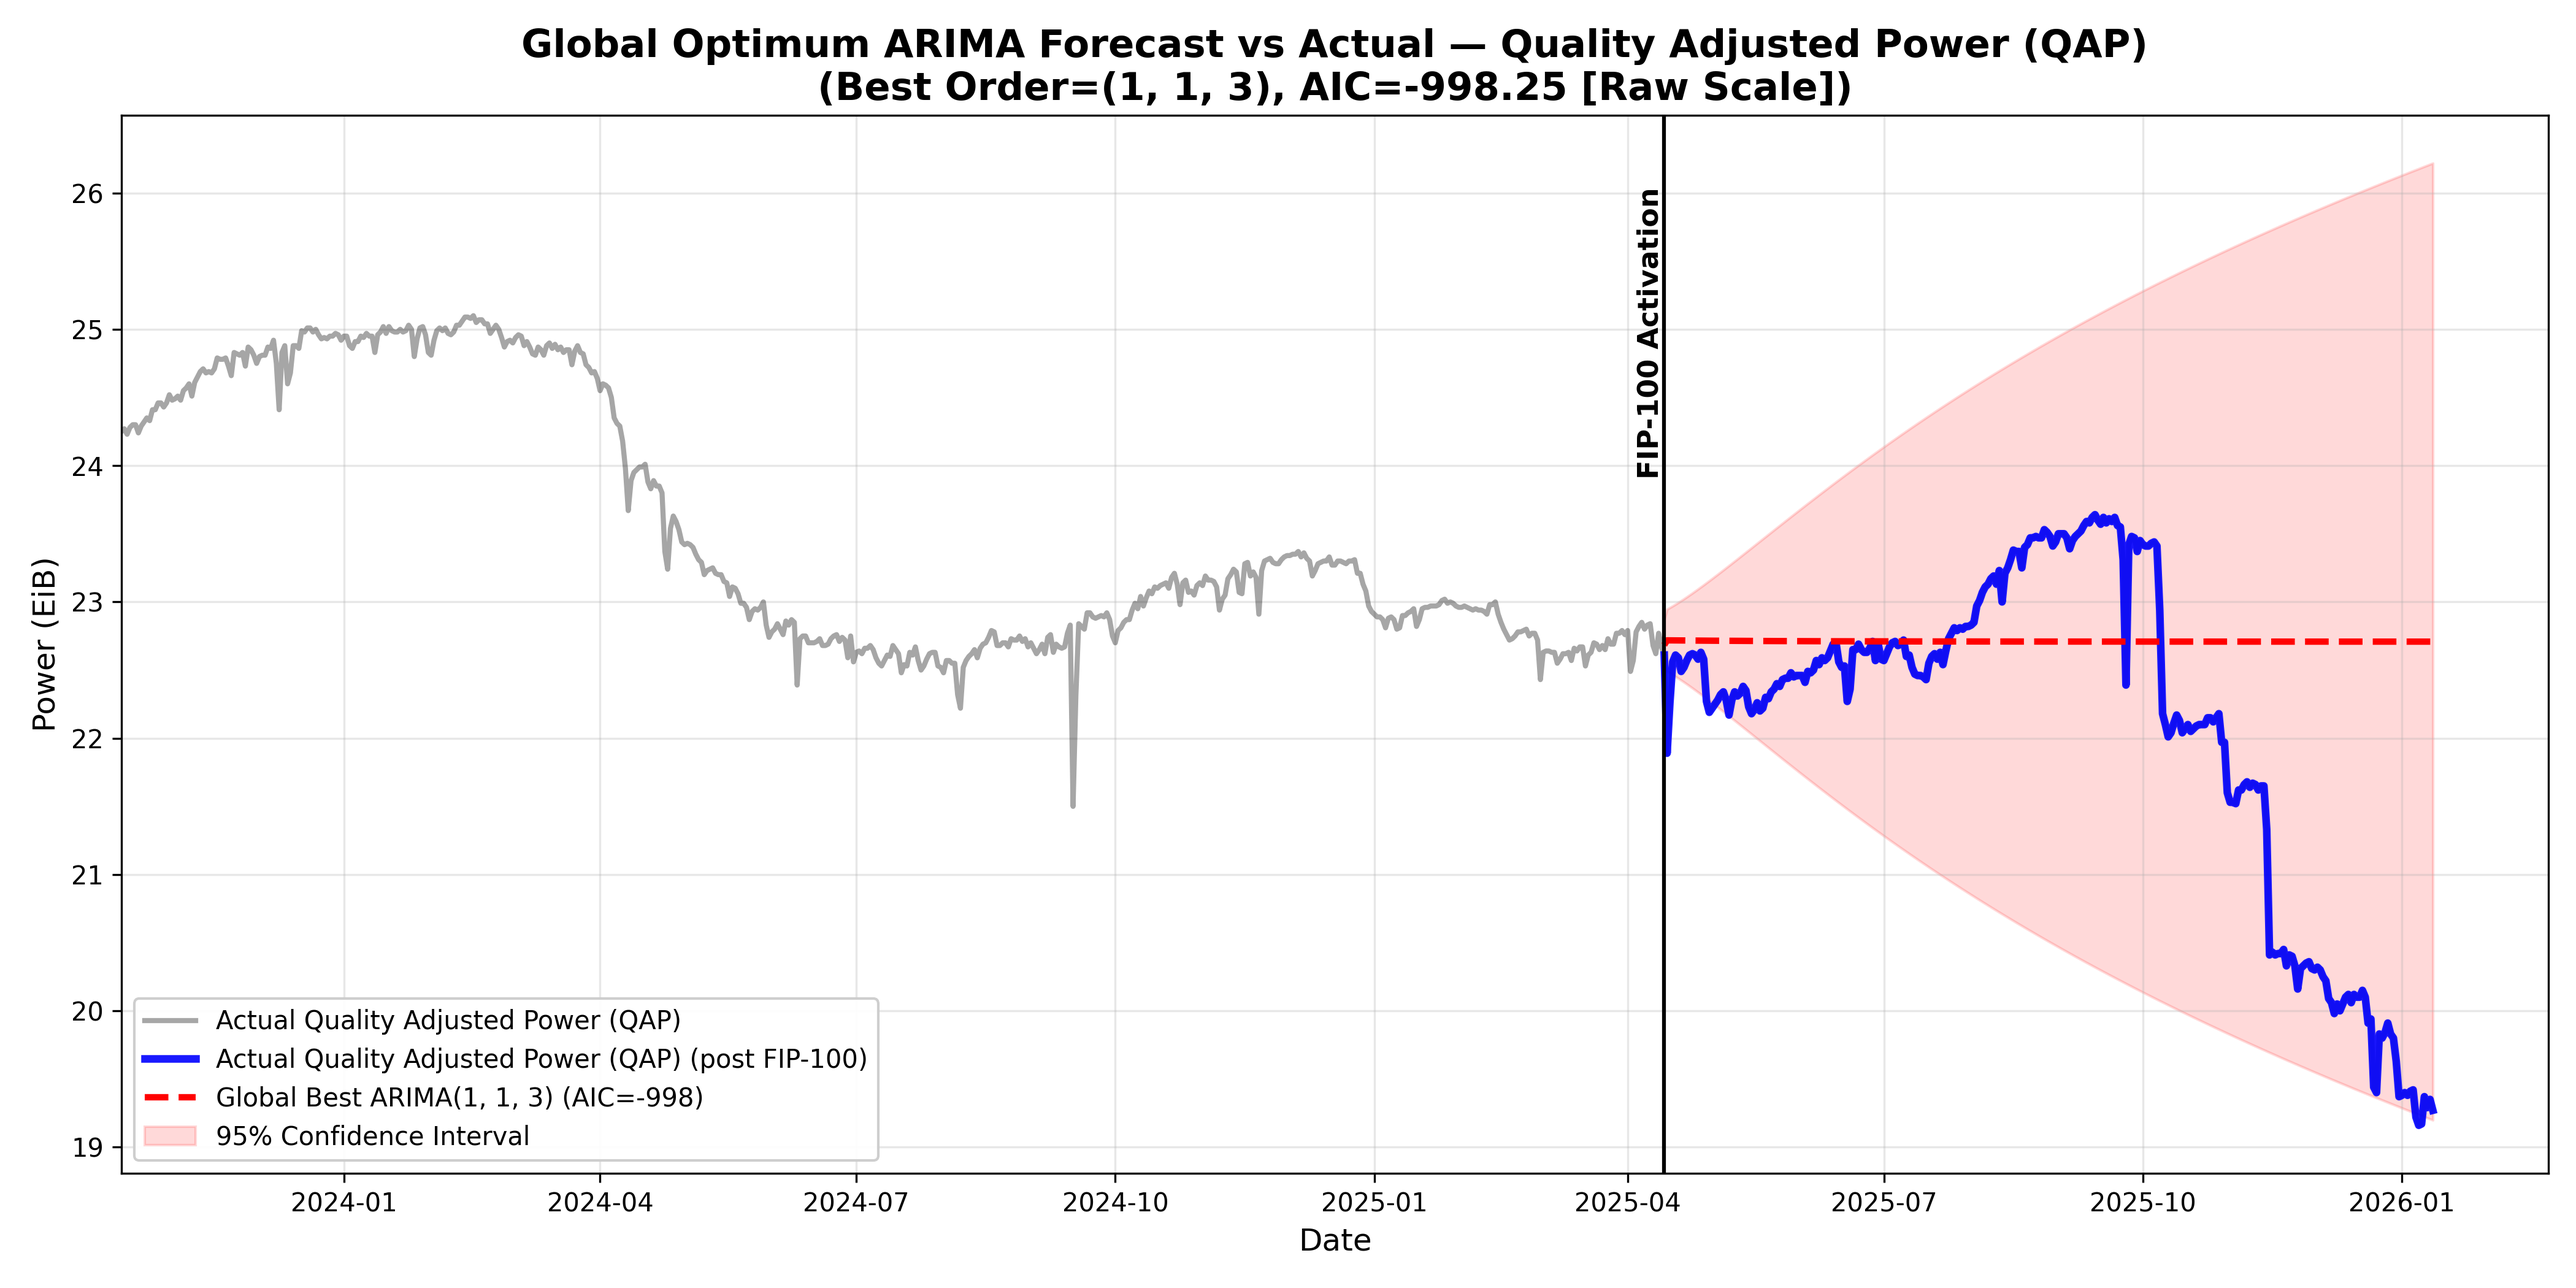
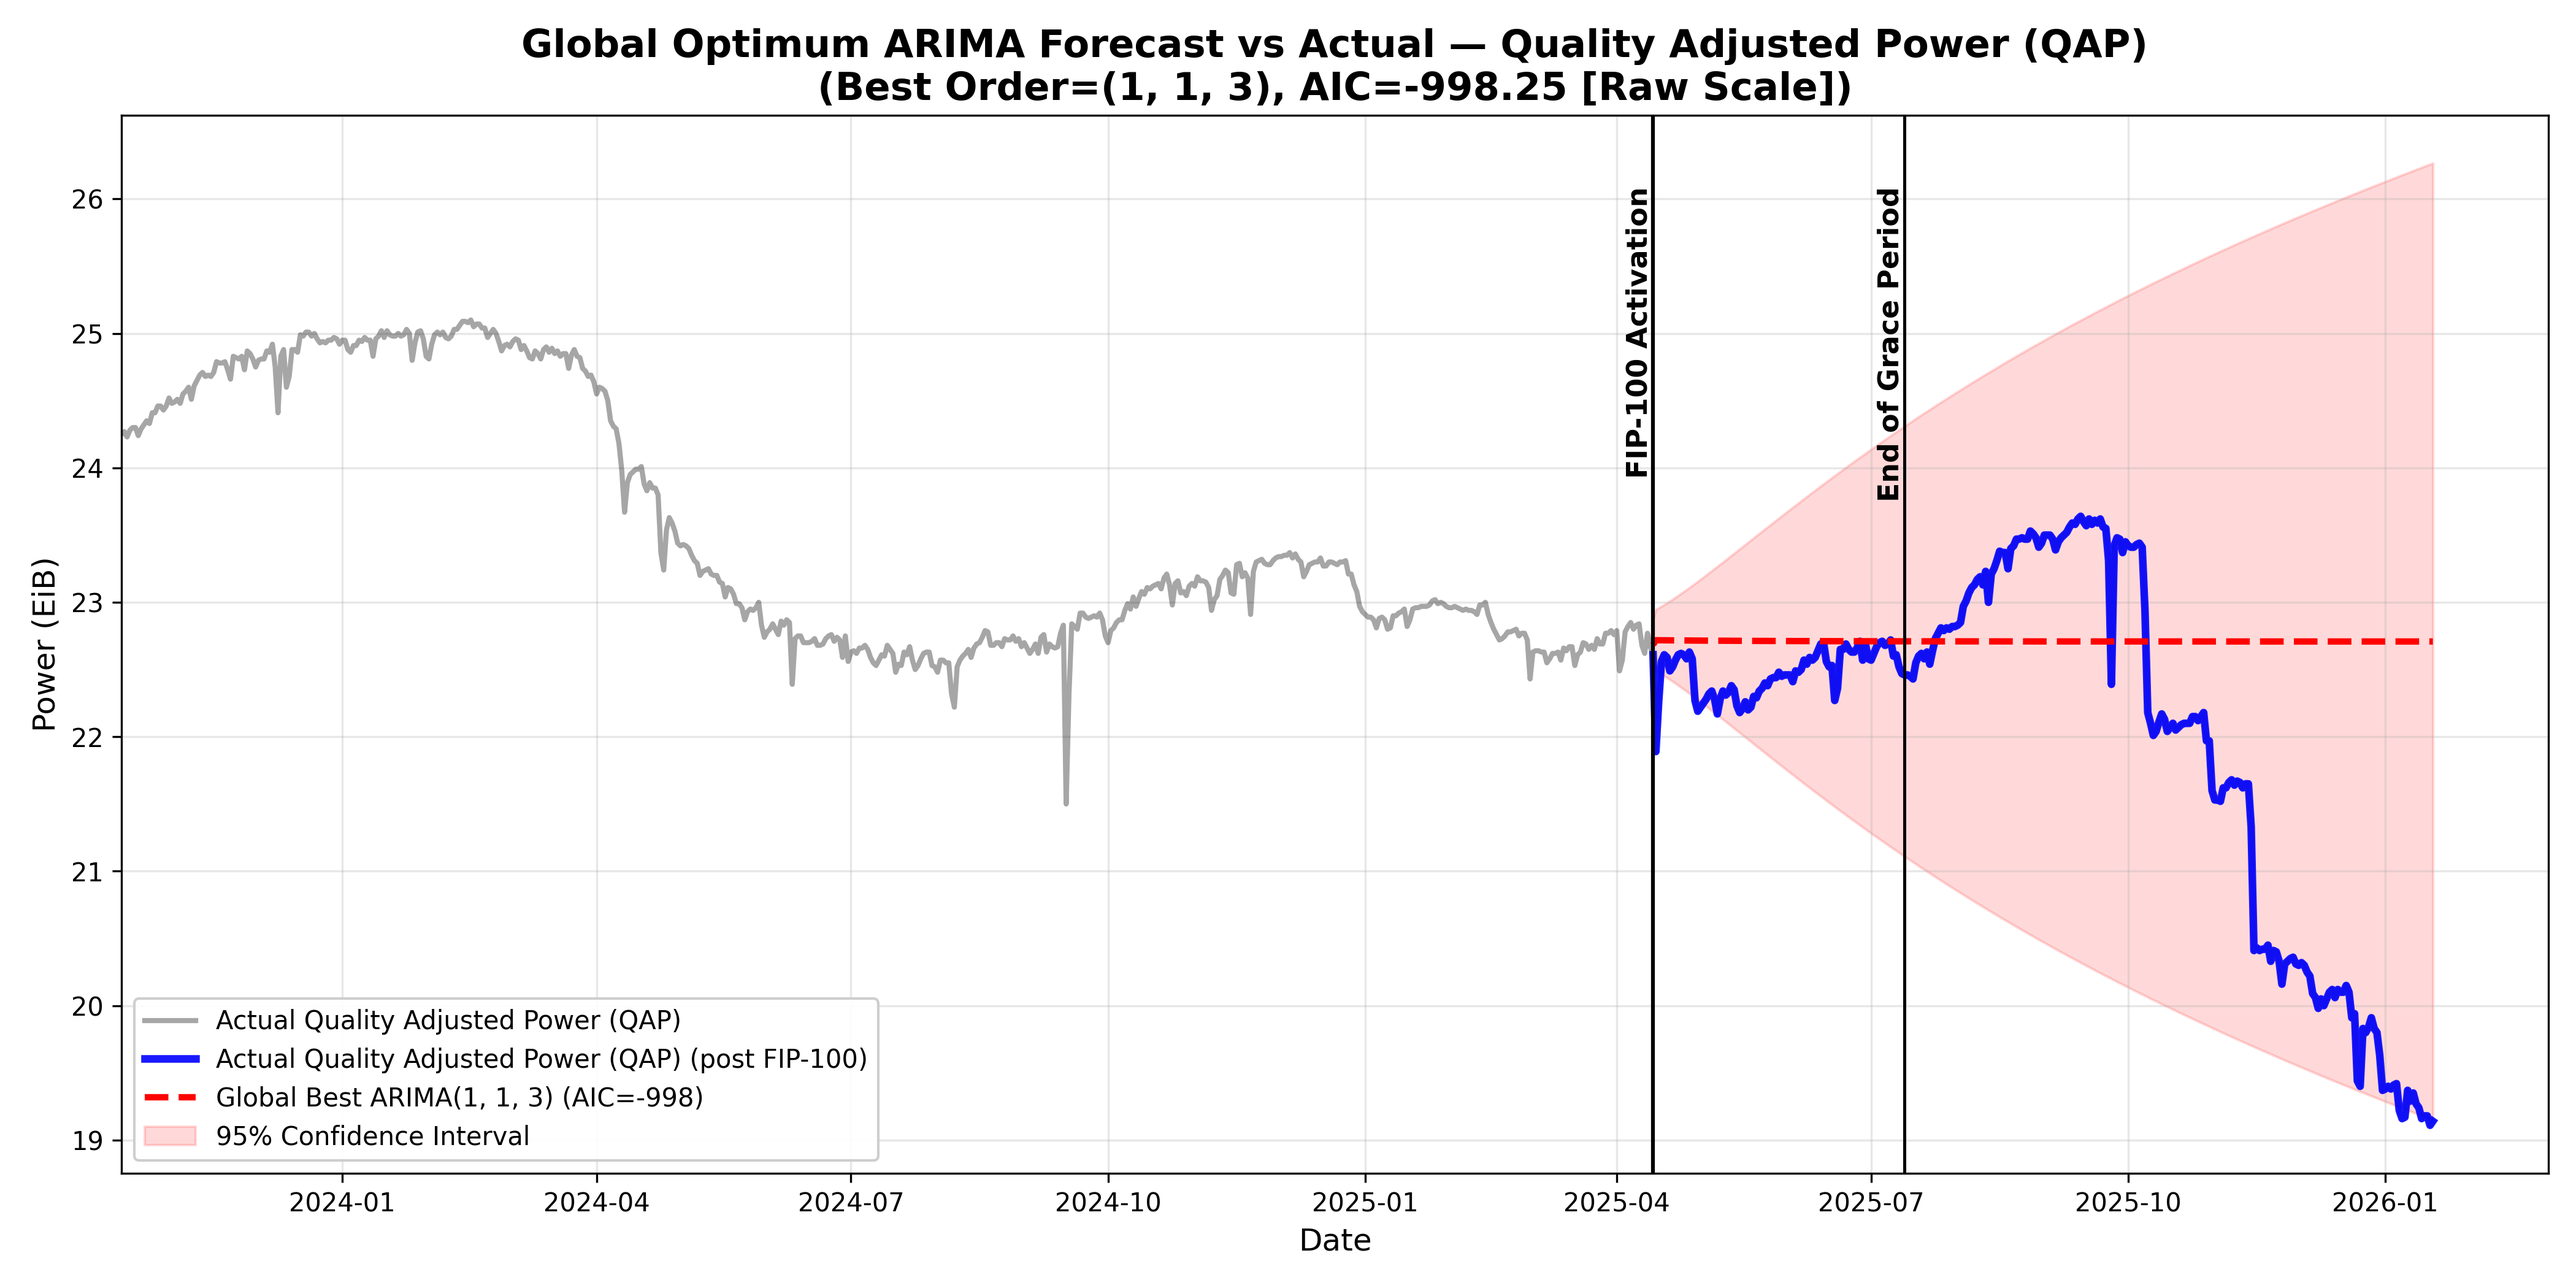
Updates

diff --git a/main.py b/main.py
@@ -1,3 +1,4 @@
+import argparse
 import warnings
 from statsmodels.tools.sm_exceptions import ConvergenceWarning
 from statsmodels.stats.diagnostic import acorr_ljungbox
@@ -180,7 +181,14 @@ def find_global_best_model(y_train: pd.Series, name: str, use_log: bool):
 # Core Plot
 # -----------------------
 
-def plot_arima_forecast(series: pd.Series, name: str, use_log: bool, out_filename: str):
+def plot_arima_forecast(
+    series: pd.Series,
+    name: str,
+    use_log: bool,
+    out_filename: str,
+    retrain: bool,
+    fixed_order: tuple[int, int, int],
+):
     series_view = series[series.index >= VIEW_START_DATE].copy()
     train = series_view[series_view.index < EVENT_DATE].copy()
     post = series_view[series_view.index >= EVENT_DATE].copy()
@@ -201,7 +209,14 @@ def plot_arima_forecast(series: pd.Series, name: str, use_log: bool, out_filenam
         model_prefix = "ARIMA"
     
     # Find Global Best Model (Fitting on transformed or raw data)
-    res, chosen_order, aic, converged = find_global_best_model(train_data, name, use_log)
+    if retrain:
+        res, chosen_order, aic, converged = find_global_best_model(train_data, name, use_log)
+    else:
+        chosen_order = fixed_order
+        res, aic, converged, err = fit_arima_with_convergence(train_data, chosen_order)
+        if res is None or err:
+            raise RuntimeError(f"[{name}] Fixed ARIMA{chosen_order} failed to fit: {err}")
+        print(f"[{name}] Using fixed model ARIMA{chosen_order} (AIC={aic:.2f})")
 
     # Forecast post period (Output matches training scale)
     steps = len(post)
@@ -237,6 +252,10 @@ def plot_arima_forecast(series: pd.Series, name: str, use_log: bool, out_filenam
     ax.axvline(EVENT_DATE, color="black", lw=1.5)
     ax.text(EVENT_DATE, ax.get_ylim()[1]*0.98, " FIP-100 Activation",
             ha="right", va="top", fontsize=11, fontweight="bold", rotation=90)
+    grace_end = EVENT_DATE + pd.Timedelta(days=90)
+    ax.axvline(grace_end, color="black", lw=1.2)
+    ax.text(grace_end, ax.get_ylim()[1]*0.98, " End of Grace Period",
+            ha="right", va="top", fontsize=11, fontweight="bold", rotation=90)
 
     ax.set_title(f"Global Optimum {model_prefix} Forecast vs Actual — {name}\n(Best Order={chosen_order}, AIC={aic:.2f} {scale_label})",
                  fontsize=15, fontweight="bold")
@@ -253,23 +272,79 @@ def plot_arima_forecast(series: pd.Series, name: str, use_log: bool, out_filenam
 
 
 def main():
+    parser = argparse.ArgumentParser(description="FIP-100 ARIMA analysis")
+    parser.add_argument(
+        "--retrain",
+        nargs="*",
+        choices=["rbp", "qap", "multiplier", "all"],
+        default=None,
+        help="Retrain via grid search for selected series (rbp, qap, multiplier). "
+             "Use --retrain without values or --retrain all to retrain all.",
+    )
+    args = parser.parse_args()
+
+    if args.retrain is None:
+        print("Using saved ARIMA orders. To retrain, run with --retrain.")
+    else:
+        print(f"Retraining series: {', '.join(args.retrain) if args.retrain else 'all'}")
+
     try:
         df = read_input_csv()
     except FileNotFoundError as e:
         print(e)
         return
 
+    # 1. Prepare Base Series
     rbp = make_daily_series(df, "Network RB Power")
     qap = make_daily_series(df, "Network QA Power")
 
-    # 1. RBP with Log Transform
-    plot_arima_forecast(rbp, "Raw Byte Power (RBP)", use_log=True, out_filename="arima_RBP_analysis.png")
+    # 2. Calculate the Multiplier Ratio
+    # Formula: Multiplier = Total QAP / Total RBP
+    # This tells us the average "Voting Power" per byte of physical storage.
+    multiplier = qap / rbp
+    multiplier.name = "Network Multiplier"
+
+    # --- PLOTTING ---
+
+    # Plot 1: RBP (Log Scale - Exponential Decay)
+    retrain_selection = set(args.retrain or [])
+    if "all" in retrain_selection:
+        retrain_selection = {"rbp", "qap", "multiplier"}
+    elif not retrain_selection and args.retrain is not None:
+        retrain_selection = {"rbp", "qap", "multiplier"}
+
+    plot_arima_forecast(
+        rbp,
+        "Raw Byte Power (RBP)",
+        use_log=True,
+        out_filename="arima_RBP_analysis.png",
+        retrain="rbp" in retrain_selection,
+        fixed_order=(1, 1, 5),
+    )
     
-    # 2. QAP without Log Transform (Raw)
-    plot_arima_forecast(qap, "Quality Adjusted Power (QAP)", use_log=False, out_filename="arima_QAP_analysis.png")
+    # Plot 2: QAP (Raw Scale - Volatile)
+    plot_arima_forecast(
+        qap,
+        "Quality Adjusted Power (QAP)",
+        use_log=False,
+        out_filename="arima_QAP_analysis.png",
+        retrain="qap" in retrain_selection,
+        fixed_order=(1, 1, 3),
+    )
+
+    # Plot 3: Multiplier Ratio (The new metric)
+    # We use raw scale because the ratio is typically linear (between 1.0 and 10.0)
+    # We use a simple (1,1,1) baseline order, but YOU SHOULD RETRAIN for best results.
+    plot_arima_forecast(
+        multiplier,
+        "Multiplier Ratio (QAP / RBP)",
+        use_log=False,
+        out_filename="arima_Multiplier_analysis.png",
+        retrain="multiplier" in retrain_selection,
+        fixed_order=(3, 1, 6),
+    )
 
     print("\nGlobal ARIMA search and analysis complete.")
-
 
 if __name__ == "__main__":
     main()
